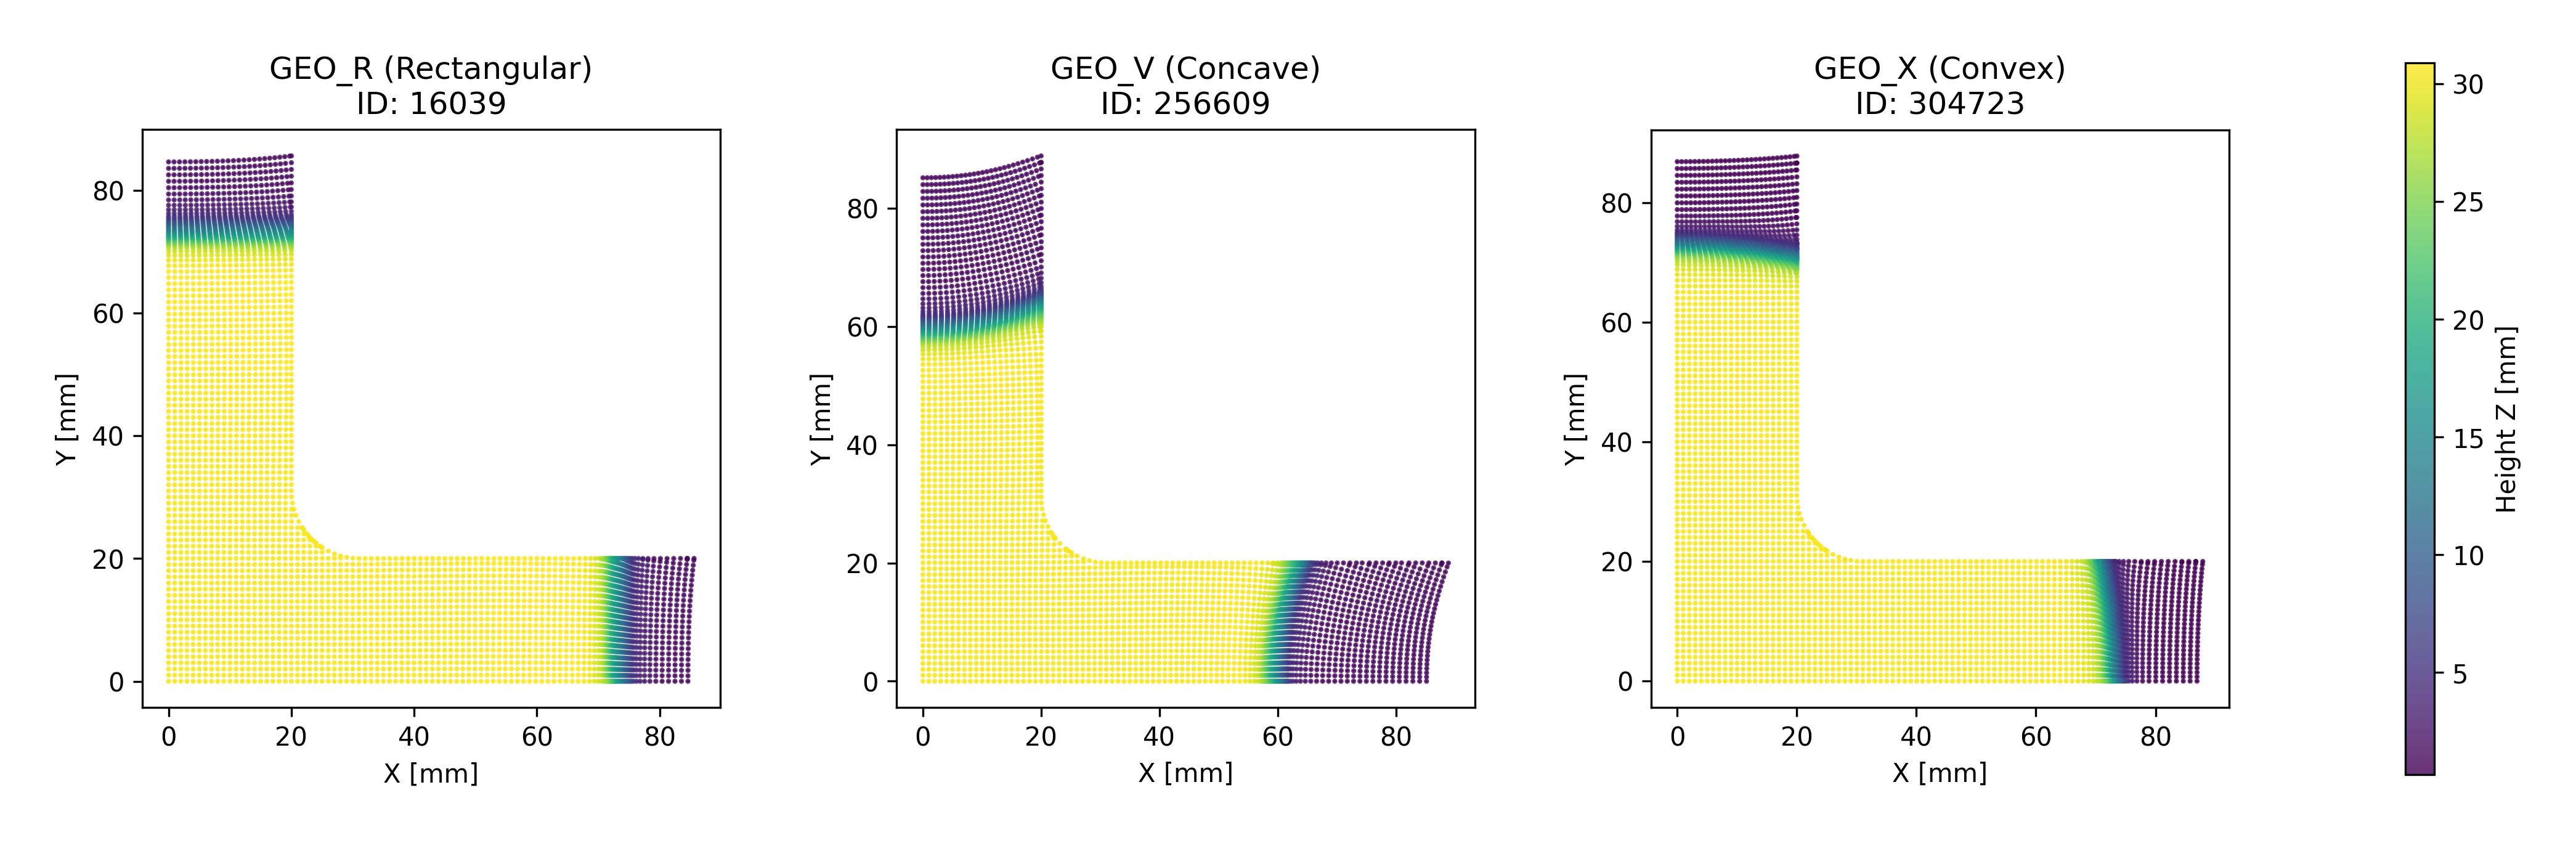
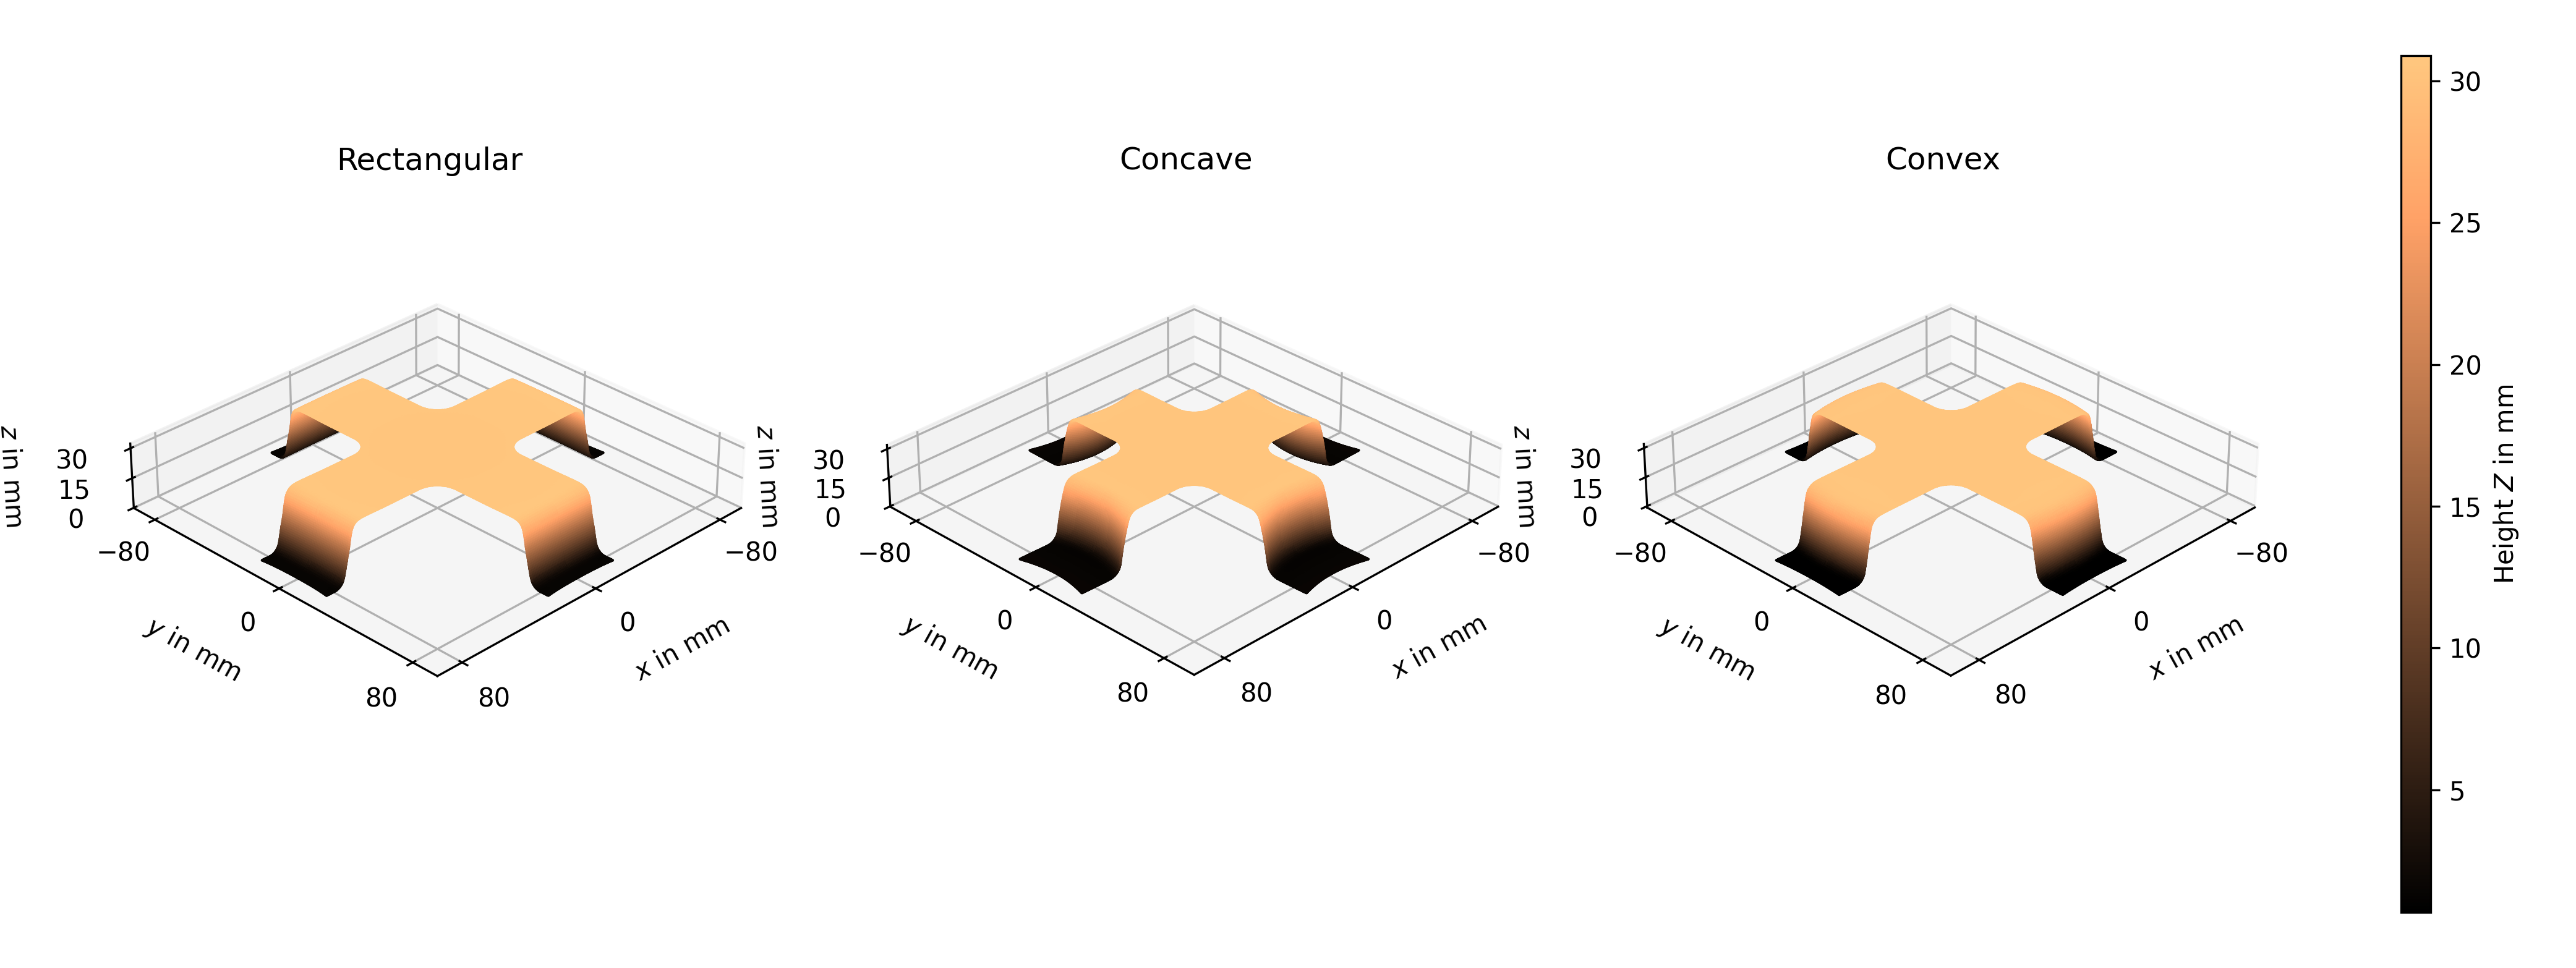
docs: research-pitch front page + geometry parameters diagram
README.md and docs/index.md now lead with the research value and a numbers
table (32,466 sims, 640 GB, 8 input parameters, train/val/test split).
process-parameters.md gets a diagram defining bottom_radius, wall_angle,
and curvature_radius on the punch (2-panel: y=0 cross-section + mirrored
plan view). Adds a colorbar=False opt-out to plot_mesh so multi-panel
figures can share one external colorbar; regenerates example_tools and
example_geometries images at the bundled sample sim, and drops obsolete
mesh / point_cloud / 2d_projection images.

diff --git a/ddacs/visualization.py b/ddacs/visualization.py
@@ -60,6 +60,7 @@ def plot_mesh(
     vmin: float | None = None,
     vmax: float | None = None,
     colorbar_label: str | None = None,
+    colorbar: bool = True,
     title: str | None = None,
     axis_limits: list[float] | None = None,
     mirror: bool = False,
@@ -175,12 +176,15 @@ def plot_mesh(
         collection = Poly3DCollection(face_vertices, **kwargs)
         ax.add_collection3d(collection)
 
-        # Add colorbar
-        sm = plt.cm.ScalarMappable(cmap=cmap, norm=norm)
-        cbar = plt.colorbar(sm, ax=ax, shrink=0.8, pad=0.1)
-        cbar.ax.yaxis.set_major_formatter(ticker.FormatStrFormatter("%.2f"))
-        if colorbar_label:
-            cbar.set_label(colorbar_label, labelpad=10)
+        # Add colorbar (opt-out for multi-panel figures with a shared colorbar)
+        if colorbar:
+            sm = plt.cm.ScalarMappable(cmap=cmap, norm=norm)
+            cbar = plt.colorbar(sm, ax=ax, shrink=0.8, pad=0.1)
+            cbar.ax.yaxis.set_major_formatter(ticker.FormatStrFormatter("%.2f"))
+            if colorbar_label:
+                cbar.set_label(colorbar_label, labelpad=10)
+        else:
+            cbar = None
 
     else:
         # Set default color if not provided

diff --git a/README.md b/README.md
@@ -10,10 +10,6 @@
 [![DOI](https://img.shields.io/badge/DOI-10.18419%2FDARUS--4801-blue.svg)](https://doi.org/10.18419/DARUS-4801)
 [![Paper](https://img.shields.io/badge/paper-MATEC%20Web%20Conf.-red.svg)](https://www.matec-conferences.org/articles/matecconf/abs/2025/02/matecconf_iddrg2025_01090/matecconf_iddrg2025_01090.html)
 
-A Croissant-native Python package for accessing the [Deep Drawing and Cutting Simulations (DDACS) Dataset](https://darus.uni-stuttgart.de/dataset.xhtml?persistentId=doi:10.18419/DARUS-4801). One CLI for the download, one Python module for access, and an optional PyTorch `IterableDataset` for training.
-
-**[Read the full documentation](https://ddacs.readthedocs.io)**
-
 <div align="center">
 
 ![Simulation overview](https://raw.githubusercontent.com/BaumSebastian/DDACS/main/docs/images/simulation_overview.gif)
@@ -21,6 +17,21 @@ A Croissant-native Python package for accessing the [Deep Drawing and Cutting Si
 *Simulation with the tool geometries showing sheet metal thinning, stress, and strain.*
 
 </div>
+
+**A large-scale dataset and benchmark for training AI models that replace computationally expensive FEA simulations in industrial sheet metal manufacturing.** Each simulation models a two-stage stamping process (deep drawing in OP10 and trimming with elastic recovery in OP20) for a cup geometry parameterised by 8 input dimensions. Train ML surrogates that predict mesh deformation, stress, strain, and springback in seconds instead of the minutes-to-hours a CAE solver would take.
+
+|  |  |
+|---|---|
+| **Simulations** | 32,466 |
+| **Total size** | ~640 GB (HDF5, lossless) |
+| **Process steps per sim** | 2 (OP10 deep drawing, OP20 trimming) |
+| **Input parameters** | 8 (4 geometric + 4 process) |
+| **Train / val / test** | 25,973 / 3,246 / 3,247 (predefined) |
+| **Mesh-node states** | ~2.1 B across all sims, timesteps, components |
+
+**[Documentation](https://ddacs.readthedocs.io)** · **[Dataset DOI](https://doi.org/10.18419/DARUS-4801)** · **[Paper](https://www.matec-conferences.org/articles/matecconf/abs/2025/02/matecconf_iddrg2025_01090/matecconf_iddrg2025_01090.html)**
+
+A Croissant-native Python package for accessing the [DDACS Dataset](https://darus.uni-stuttgart.de/dataset.xhtml?persistentId=doi:10.18419/DARUS-4801) ships with this repo: one CLI for the download, one Python module for access, and an optional PyTorch `IterableDataset` for training.
 
 ## Table of Contents
 

diff --git a/docs/index.md b/docs/index.md
@@ -9,12 +9,23 @@
 [![DaRUS Repository](https://img.shields.io/badge/repository-DaRUS-green.svg)](https://darus.uni-stuttgart.de/dataset.xhtml?persistentId=doi:10.18419/DARUS-4801)
 [![DOI](https://img.shields.io/badge/DOI-10.18419%2FDARUS--4801-blue.svg)](https://doi.org/10.18419/DARUS-4801)
 
-The [Deep Drawing and Cutting Simulations (DDACS) Dataset](https://darus.uni-stuttgart.de/dataset.xhtml?persistentId=doi:10.18419/DARUS-4801) contains {{ simulation_count() }} sheet metal forming simulations exported from LS DYNA. The `ddacs` package provides a Croissant native interface: one CLI for the download, one Python module for access, and an optional PyTorch `IterableDataset` for training.
-
 <div align="center">
   <img src="images/simulation_overview.gif" alt="Simulation Overview"/>
   <p><em>Simulation with tool geometries showing sheet metal thinning, stress and strain.</em></p>
 </div>
+
+**A large-scale dataset and benchmark for training AI models that replace computationally expensive FEA simulations in industrial sheet metal manufacturing.** Each simulation models a two-stage stamping process (deep drawing in OP10 and trimming with elastic recovery in OP20) for a cup geometry parameterised by 8 input dimensions. Train ML surrogates that predict mesh deformation, stress, strain, and springback in seconds instead of the minutes-to-hours a CAE solver would take.
+
+|  |  |
+|---|---|
+| **Simulations** | {{ simulation_count() }} |
+| **Total size** | {{ total_size() }} (HDF5, lossless) |
+| **Process steps per sim** | 2 (OP10 deep drawing, OP20 trimming) |
+| **Input parameters** | 8 (4 geometric + 4 process) |
+| **Train / val / test** | 25,973 / 3,246 / 3,247 (predefined) |
+| **Mesh-node states** | ~2.1 B across all sims, timesteps, components |
+
+The `ddacs` package ships with the dataset and provides a Croissant native interface: one CLI for the download, one Python module for access, and an optional PyTorch `IterableDataset` for training.
 
 ## Get the data
 

diff --git a/docs/process-parameters.md b/docs/process-parameters.md
@@ -18,11 +18,17 @@ The `geometry` column takes three values, one per family of corner shapes. The `
 
 `bottom_radius` is sampled at 5 / 7.5 / 10 mm and `wall_angle` at 10 / 20 / 30 deg across all three families.
 
-**OP10 (after forming)**
+The three dimensional parameters are defined on the punch as shown below: `bottom_radius` rounds the floor-to-wall transition, `wall_angle` is measured between the wall and the vertical axis, and `curvature_radius` controls the side / corner arcs that distinguish the geometry families.
+
+<img src="https://raw.githubusercontent.com/BaumSebastian/DDACS/main/docs/images/example_geometry_parameters.png" width="900">
+
+Each family is rendered below as a formed blank at the end of each operation; the three panels per row share a colour scale of vertical height (Z, in mm) so the depth of the cup is directly comparable across families.
+
+**OP10 — after springback**
 
 <img src="https://raw.githubusercontent.com/BaumSebastian/DDACS/main/docs/images/example_geometries_op10.png" width="700">
 
-**OP20 (after cutting)**
+**OP20 — after cutting**
 
 <img src="https://raw.githubusercontent.com/BaumSebastian/DDACS/main/docs/images/example_geometries_op20.png" width="700">
 